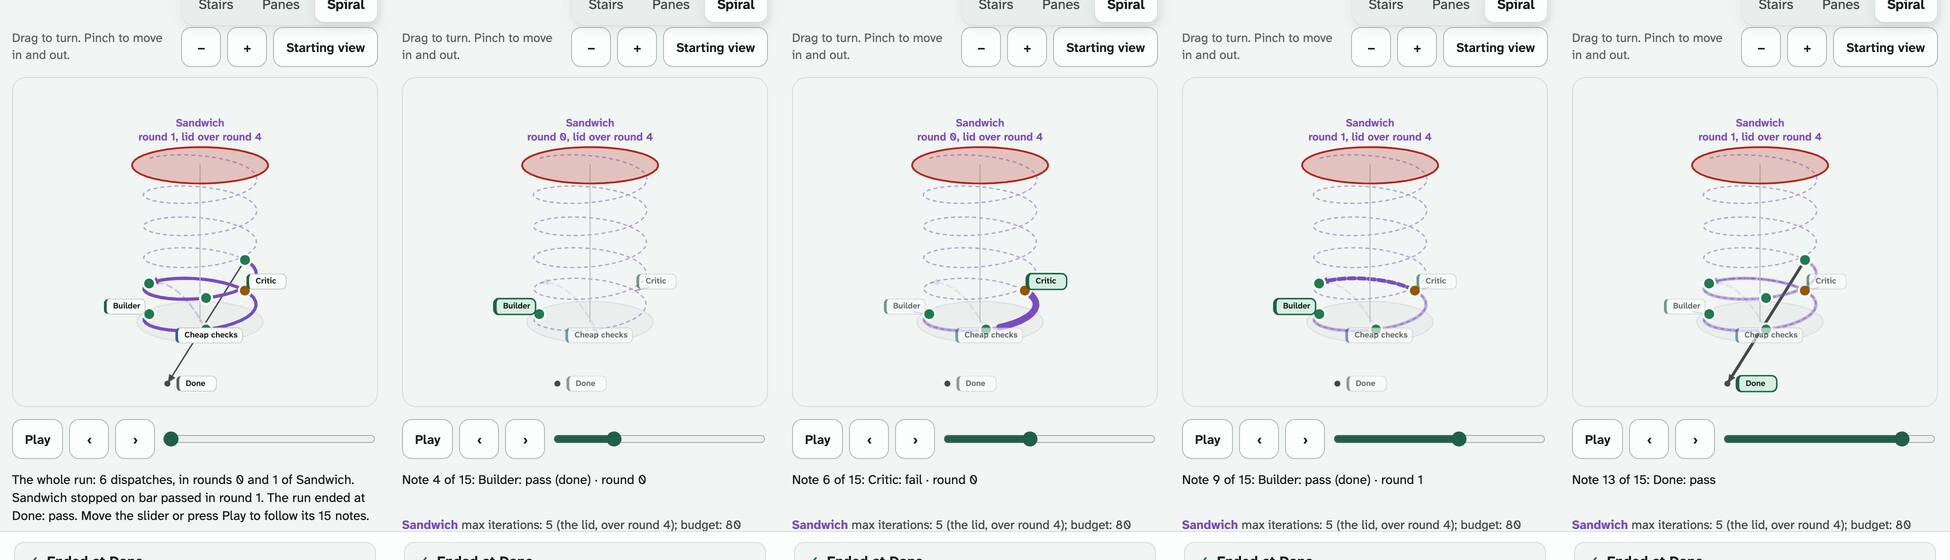
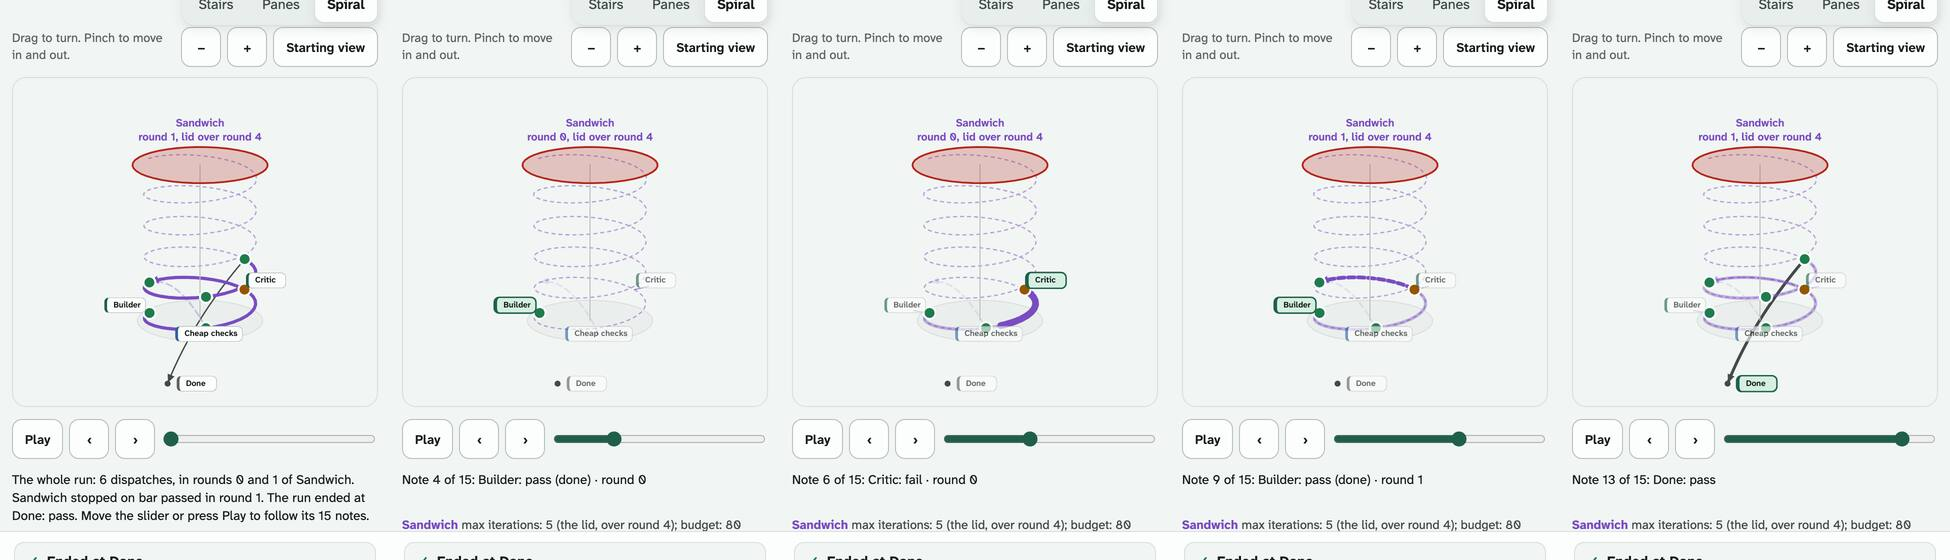
web: the spiral stacked, after its reader and CI: an edge goes out to the side round the nodes between its ends and round the top of any spiral it passes, takings of one edge are apart, the frame leaves 7 px between cards where it can and follows its own width as that changes; the phone test demands

diff --git a/apps/web/test/graph-stage.test.ts b/apps/web/test/graph-stage.test.ts
@@ -723,6 +723,11 @@ describe("the spiral and its lid", () => {
     // The two spirals' middles are in one upright line, the inner loop's above the outer's by more than its own height.
     // Each spiral has an upright line up its middle: the foot of each, the higher first. The loop inside is placed first.
     const feet = (prims: typeof built.prims) => prims.flatMap((p) => (p.t === "line" && p.stroke === "line-strong" && p.pts.length === 2 ? [p.pts[0]!] : []));
+    /** Each spiral's top (where its middle line ends) and its turn's radius (the floor under it is 12 wider). */
+    const feetOf = (prims: typeof built.prims): { y: number; r: number }[] => {
+      const floors = prims.flatMap((p) => (p.t === "poly" && p.fill === "floor" ? [p.pts] : []));
+      return prims.flatMap((p) => (p.t === "line" && p.stroke === "line-strong" && p.pts.length === 2 ? [p.pts] : [])).map(([foot, top], n) => ({ y: top![1], r: Math.max(...floors[n]!.map((v) => Math.hypot(v[0] - foot![0], v[2] - foot![2]))) - 12 }));
+    };
     const [polish, pieces] = feet(built.prims).sort((a, b) => b[1] - a[1]);
     expect(turnsOf(built.node("owner")[1] - polish![1])).toBe(0);
     expect(turnsOf(built.node("next-piece")[1] - pieces![1])).toBe(0.5);
@@ -738,6 +743,50 @@ describe("the spiral and its lid", () => {
     expect(feet(wide.prims).map((foot) => foot[1])).toEqual([0, 0]);
     expect(new Set(feet(wide.prims).map((foot) => foot[0])).size).toBe(2);
     expect(wide.prims.some((p) => p.t === "card" && !p.small)).toBe(true);
+    // Stacked, over is along the line, so an edge goes out to the side. Round the top of each spiral it passes, lid
+    // and turns: where it is level with that top it is more than the lid's radius (the turn's and 18) from the
+    // middle, on every template; and on the side of its own end there, so that it does not cross the turns.
+    let [passed, right] = [0, 0];
+    for (const path of ALL) {
+      const doc = graph(path);
+      const g = modelAt(doc, places(doc), undefined, true);
+      const drawn = spiral(g, whole);
+      const tops = feetOf(drawn.prims);
+      for (const e of g.edges) {
+        const pts = drawn.path(e.id, 0, e.back ? 1 : 0);
+        if (pts.length !== 19) continue;
+        for (const top of tops) {
+          const k = pts.findIndex((v, n) => n > 0 && (pts[n - 1]![1] - top.y) * (v[1] - top.y) < 0);
+          if (k < 0) continue;
+          const x = pts[k - 1]![0] + ((pts[k]![0] - pts[k - 1]![0]) * (top.y - pts[k - 1]![1])) / (pts[k]![1] - pts[k - 1]![1]);
+          expect(Math.abs(x), `${path} ${e.id}`).toBeGreaterThan(top.r + 18 + 8);
+          // Between two places on the right of their spirals it stays on the right.
+          if (drawn.node(e.from)[0] > 0 && drawn.node(e.to)[0] > 0) expect(x, `${path} ${e.id}`).toBeGreaterThan(0), (right += 1);
+          passed += 1;
+        }
+      }
+    }
+    expect([passed > 6, right > 0]).toEqual([true, true]);
+    // Round the nodes on the ground between its ends, to the left, where no card stands: three candidates each go
+    // to the filter, and the first's edge is 30 or more to the left of the second and the third where it passes them.
+    const tournament = graph("patterns/tournament-then-judge.grooph.json");
+    const stacked = spiral(modelAt(tournament, places(tournament), undefined, true), whole);
+    const across = (id: string, y: number): number => {
+      const pts = stacked.path(id);
+      const k = pts.findIndex((v, n) => n > 0 && (pts[n - 1]![1] - y) * (v[1] - y) <= 0);
+      return pts[k - 1]![0] + ((pts[k]![0] - pts[k - 1]![0]) * (y - pts[k - 1]![1])) / (pts[k]![1] - pts[k - 1]![1] || 1);
+    };
+    for (const between of ["candidate-b", "candidate-c"]) expect(across("e-candidate-a-filter", stacked.node(between)[1]) - stacked.node(between)[0], between).toBeLessThan(-30);
+    expect(across("e-candidate-b-filter", stacked.node("candidate-c")[1]) - stacked.node("candidate-c")[0]).toBeLessThan(-30);
+    expect(stacked.path("e-candidate-c-filter").every((v) => v[0] === stacked.node("filter")[0])).toBe(true);
+    // And a graph with no loop keeps its cards whole there: a column has room for them.
+    expect(stacked.prims.some((p) => p.t === "card" && p.small)).toBe(false);
+    // Two takings of one edge between the two spirals of the nested run, one over the other, are apart.
+    const [nestedDoc, nestedNotes] = runAt("run-nested");
+    const ran = modelAt(nestedDoc, places(nestedDoc), nestedNotes, true);
+    const takings = spiral(ran, at(ran, 0)).prims.flatMap((p) => (p.t === "line" && p.key?.startsWith("edge:e-tests-judge@") ? [p.pts] : []));
+    expect(takings).toHaveLength(2);
+    expect(Math.abs(takings[0]![9]![0] - takings[1]![9]![0])).toBeGreaterThan(5);
     // No loop, narrow: a column, each node 52 under the one before it.
     const line = graph("patterns/tournament-then-judge.grooph.json");
     const column = spiral(modelAt(line, places(line), undefined, true), whole);

diff --git a/apps/web/e2e/graph-stage.spec.ts b/apps/web/e2e/graph-stage.spec.ts
@@ -21,6 +21,7 @@ const STAGE = /\/assets\/graph-stage-[^/]*\.js$/;
 const STAIRS = /\/assets\/space-[^/]*\.js$/;
 /** The built-in templates whose cards still touch in Panes under an open details sheet, at two phones' sizes. */
 const TIGHT_390: string[] = ["debate-then-build", "gauntlet-decomposed", "ownership-not-swarm", "patrol-pulse", "specialist-critic-bank", "tournament-then-judge"];
+const SPIRAL_MARGIN_360: string[] = ["gauntlet-decomposed", "specialist-critic-bank"];
 const MARGIN_360: string[] = ["heterogeneous-critic", "review-gate"];
 const TIGHT_360: string[] = ["debate-then-build", "gauntlet-decomposed", "merge-queue", "ownership-not-swarm", "patrol-pulse", "spec-then-loop", "specialist-critic-bank", "tournament-then-judge"];
 /** Whether the note that a view could not be fetched lies over any of the view's bar, its picture or its words. */
@@ -1000,6 +1001,7 @@ test("in the spiral, as a template's page first opens on a phone, no card of any
   for (const [width, height] of [[390, 844], [360, 740]] as const) {
     await page.setViewportSize({ width, height });
     const touching: Record<string, string[]> = {};
+    let nearest = Infinity;
     for (const id of ids) {
       await page.goto("about:blank");
       await page.goto(`./#/templates/built-in/${id}`);
@@ -1009,8 +1011,18 @@ test("in the spiral, as a template's page first opens on a phone, no card of any
       await viewIsStill(page);
       await expect(cards(page)).toHaveCount(pattern(id).nodes.length);
       const hits = await overlaps(page);
-      if (hits.length) touching[id] = hits;
       const [frame, room] = [(await page.locator(".s3-frame").boundingBox())!, await page.locator(".graph-space").evaluate((el) => el.clientHeight)];
+      if (hits.length) {
+        touching[id] = hits;
+        // For the log: what the frame had, and whether the page said so.
+        console.log(`spiral, touching at ${width}: ${id} (${hits.join("; ")}), frame ${Math.round(frame.height)} of ${room}, the page says so: ${await page.locator("[data-tight]").count()}`);
+      }
+      // How near the nearest two cards are: the frame is made tall enough to leave 7 px between any two, where
+      // its width and its cap let it.
+      nearest = Math.min(nearest, await cards(page).evaluateAll((els) => {
+        const boxes = els.map((el) => el.getBoundingClientRect());
+        return Math.min(...boxes.flatMap((a, i) => boxes.slice(i + 1).map((b) => Math.max(b.left - a.right, a.left - b.right, b.top - a.bottom, a.top - b.bottom))));
+      }));
       expect(frame.height, id).toBeGreaterThanOrEqual(329);
       expect(frame.height, id).toBeLessThanOrEqual(Math.round(room * 0.8) + 1);
       for (const box of await cards(page).evaluateAll((els) => els.map((el) => el.getBoundingClientRect().toJSON() as { top: number; bottom: number; left: number; right: number }))) {
@@ -1020,7 +1032,13 @@ test("in the spiral, as a template's page first opens on a phone, no card of any
         expect(box.bottom, id).toBeLessThanOrEqual(frame.y + frame.height + 1);
       }
     }
-    expect(touching, `at ${width}`).toEqual({});
+    // The bar is 390 by 844: no two cards touch on any template, and none is nearer another than 4 px (the frame
+    // leaves 7 where it can; a browser's own text is a little wider or narrower). At 360 by 740 two templates are
+    // at the margin and may touch in one browser's text: Gauntlet's two spirals and its six nodes on the ground
+    // reach the cap on the frame's height, and the critic bank's seven cards round one turn are as far apart as a
+    // frame 336 px wide lets them be. No other may.
+    if (width === 390) expect([touching, nearest >= 4], `at ${width}, nearest ${nearest}`).toEqual([{}, true]);
+    else expect(Object.keys(touching).filter((id) => !SPIRAL_MARGIN_360.includes(id)), `at ${width}`).toEqual([]);
   }
   // Gauntlet's two spirals: Pieces under Polish a piece, not beside it; and every card its name alone.
   await page.goto("about:blank");

diff --git a/apps/web/src/ui/canvas/graph-stage.tsx b/apps/web/src/ui/canvas/graph-stage.tsx
@@ -20,9 +20,9 @@ import { along, shownAt, type View } from "./stage/shapes.js";
 import { brakes, spiral, topOf } from "./stage/spiral.js";
 
 /** Each kind: how it places the graph, where it is first seen from, what it is in a sentence, whether its frame is made as tall as its cards need to be clear of each other, and whether each loop's brakes are said under it. */
-const KINDS: Record<string, { view: View; start: Look; as: string; says: string; apart?: boolean; brakes?: boolean }> = {
-  panes: { view: panes, start: { yaw: -0.86, pitch: 0.16 }, as: "panes", apart: true, says: "Every node is where the picture has it, one pane toward you for each loop or subgrooph around it; loops that only share a node are panes at one depth. An edge that changes depth is entering or leaving a loop or a subgrooph." },
-  spiral: { view: spiral, start: { yaw: -0.42, pitch: 0.3 }, as: "a spiral for each loop", apart: true, says: "A round of a loop is one turn upward, and a brake that counts rounds is a place on the way up. A loop inside another is a spiral of its own, where its rounds start afresh; a node two loops share stands on one of them.", brakes: true },
+const KINDS: Record<string, { view: View; start: Look; as: string; says: string; apart?: number; brakes?: boolean }> = {
+  panes: { view: panes, start: { yaw: -0.86, pitch: 0.16 }, as: "panes", apart: 2, says: "Every node is where the picture has it, one pane toward you for each loop or subgrooph around it; loops that only share a node are panes at one depth. An edge that changes depth is entering or leaving a loop or a subgrooph." },
+  spiral: { view: spiral, start: { yaw: -0.42, pitch: 0.3 }, as: "a spiral for each loop", apart: 7, says: "A round of a loop is one turn upward, and a brake that counts rounds is a place on the way up. A loop inside another is a spiral of its own, where its rounds start afresh; a node two loops share stands on one of them.", brakes: true },
 };
 
 let styled = false;
@@ -40,7 +40,8 @@ export function Stage3({ doc, kind, wide, of, drawn }: { doc: Graph; kind: strin
   const the = KINDS[kind]!;
   // Where the canvas has each node: the document's layout where it has one, and the canvas's own for this screen.
   // Whether the frame is a phone's width: the frame's own, since a window with the details beside the view is wide
-  // and its frame is not. Read once it is on the page, before anything is painted.
+  // and its frame is not. Read once it is on the page, before anything is painted, and again when its width
+  // changes (a panel opened beside it).
   const [slim, setSlim] = useState(wide < 640);
   const model = useMemo(() => modelOf(doc, resolvePositions(doc, columnsAt(wide), DEFAULT_LAYOUT_BOX).positions, of.notes, slim), [doc, wide, of.notes, slim]);
   // Every loop and box a node is in, the nearest first: what its card is said to be in.
@@ -59,7 +60,13 @@ export function Stage3({ doc, kind, wide, of, drawn }: { doc: Graph; kind: strin
   const once = useRef(false);
   const was = useRef(0);
 
-  useLayoutEffect(() => setSlim(frame.current!.clientWidth < 640), [wide]);
+  useLayoutEffect(() => {
+    const see = (): void => setSlim(frame.current!.clientWidth < 640);
+    see();
+    const sized = new ResizeObserver(see);
+    sized.observe(frame.current!);
+    return () => sized.disconnect();
+  }, []);
   useLayoutEffect(() => {
     const made = (stage.current = makeStage(frame.current!, canvas.current!, cards.current!, the.start, the.apart));
     // What a view grows (a spiral, its lid) is not there when the view comes: the cards land first, and then it is

diff --git a/apps/web/src/ui/canvas/stage/spiral.ts b/apps/web/src/ui/canvas/stage/spiral.ts
@@ -145,7 +145,7 @@ export const spiral: View = (m, shown) => {
     let down = 0;
     for (const item of order) {
       const top = item.loop ? topOf(m, item.loop) : 0;
-      const [over, under] = item.loop ? [Math.max(top, brakes(item.loop, top).budget ?? 0) * H + 96, 0.3 * (R(item.loop) + 50) + 56] : [20, 20];
+      const [over, under] = item.loop ? [Math.max(top, brakes(item.loop, top).budget ?? 0) * H + 96, 0.3 * (R(item.loop) + 50) + 56] : [23, 23];
       down += over;
       if (item.loop) place(item.loop, [0, -down, 0]);
       else at[item.node!] = [-60, -down, 0];
@@ -210,7 +210,23 @@ export const spiral: View = (m, shown) => {
     const place = (id: Id): number => order.findIndex((item) => item.node === id || !!item.loop?.own.includes(id));
     const [a, b] = [place(e.from), place(e.to)].sort((x, y) => x - y) as [number, number];
     const over = by(m.nodes, e.from).loop && landing ? 0 : 26 * order.slice(a + 1, b).filter((item) => item.node).length;
-    return arch(spot(e.from, rise(e.from, r0)), spot(e.to, arrives), e.back ? 40 : over, 18);
+    const [p, q] = [spot(e.from, rise(e.from, r0)), spot(e.to, arrives)];
+    if (!m.narrow) return arch(p, q, e.back ? 40 : over, 18);
+    // Where the spirals stand one under the other, over is along the line: the edge goes out to the side instead,
+    // to the left, where no card on the ground stands (or to the right, between two places on the right of their
+    // spirals). Round the nodes on the ground between; round the top of any spiral it comes down past or goes up
+    // past, lid and turns, so that it does not come through the lid; and each taking of an edge a little apart
+    // from the others, since two rounds of one place are one over the other here.
+    // How far along the edge the top of a spiral is, where the edge passes it; and the side it goes round on:
+    // that of its own end on such a spiral, so that it leaves or reaches its place from outside the turns.
+    const past = (loop: MLoop): number => (tower[loop.id]!.c[1] + topOf(m, loop) * H - p[1]) / (q[1] - p[1] || 1);
+    const tops = m.loops.filter((loop) => past(loop) > 0 && past(loop) < 1);
+    const mine = tops.find((loop) => loop.own.includes(e.from) || loop.own.includes(e.to));
+    const side = (mine ? (mine.own.includes(e.from) ? p : q)[0] > 0 : p[0] > 0 && q[0] > 0) ? 1 : -1;
+    let out = e.back ? 40 : over * 1.3;
+    for (const loop of tops) out = Math.max(out, (tower[loop.id]!.r + 30 - side * (p[0] + (q[0] - p[0]) * past(loop))) / Math.max(0.36, 4 * past(loop) * (1 - past(loop))));
+    out += 12 * r0 + 6 * r1;
+    return arch(p, q, 0, 18).map((v, n): V => [v[0] + side * out * 4 * (n / 18) * (1 - n / 18), v[1], v[2]]);
   };
   // The edges. A template's are drawn as they are in round 0. A run's are drawn where the run took them, between
   // the rounds it took them, as far as the slider has come; one it never took is faint, at round 0. An edge that is

diff --git a/apps/web/src/ui/canvas/stage/draw.ts b/apps/web/src/ui/canvas/stage/draw.ts
@@ -53,7 +53,7 @@ const READABLE = 0.9;
  * they need to be clear, up to `TALLEST` of what scrolls it, and the page scrolls. The height is asked of the
  * frame's parent, whose row it is, as `--s3-tall`; what scrolls is that parent's parent.
  */
-export function makeStage(frame: HTMLElement, canvas: HTMLCanvasElement, cards: HTMLElement, start: Look, roomy = false): Stage {
+export function makeStage(frame: HTMLElement, canvas: HTMLCanvasElement, cards: HTMLElement, start: Look, roomy = 0): Stage {
   // A browser that gives no drawing surface (it can refuse one, or have none left) cannot show this view: said, so
   // that what holds the view can fall back to what it showed before, and not left to fail at the first line drawn.
   const surface = canvas.getContext("2d");
@@ -153,7 +153,7 @@ export function makeStage(frame: HTMLElement, canvas: HTMLCanvasElement, cards: 
       else if (what() !== tallFor) {
         // At a size, whether no two cards lie over each other, placed as they are drawn: two pixels clear, so that
         // their edges are not one line.
-        const clear = (f: number, gap = 2): boolean => {
+        const clear = (f: number, gap = roomy): boolean => {
           const [x0, x1, y0, y1] = box(f);
           const [sx, sy] = [(x0 + x1) / 2 / f, -(y0 + y1) / 2 / f];
           const boxes = placed.map(([p, el, t]) => boxOf(p, el, (t[0] - sx) * near(t[2], f), -(t[1] - sy) * near(t[2], f), near(t[2], f)));

diff --git a/docs/exports.md b/docs/exports.md
@@ -62,7 +62,7 @@ A tap on a card does what a tap on its node does on the canvas. The canvas keeps
 
 - **Panes.** The picture as it is, with each loop and each subgrooph lifted toward the reader on a pane of its own. A group that was not placed from a template is not drawn on the picture and has no pane, though a node's card says it is in it. Every node is where the canvas has it (the document's own layout where it has one; where it has none the canvas's, wrapped where the canvas wrapped its rows when it last laid the document out), and as many panes forward as there are loops and subgroophs around it, one inside another, so a loop inside a loop is two panes out. Two loops that share a node without one being inside the other are two panes at one depth. Face on it is the picture; turned, it shows what is inside what, and an edge that changes depth is entering or leaving a loop or a subgrooph. A graph with neither says that nothing is lifted. A pane's name stands outside it, at whichever of its corners or sides no card is over (a card is an element over the drawing, and the next node of a column stands at a pane's corner). An edge is drawn from the edge of the card it leaves to the edge of the card it reaches, so its head is at the card and not under it, and of two edges between the same two nodes the second in the document bows out past the first, to the side of the line they share: to the right of one that runs down the page, under one that runs across it, and an edge from a node to itself, a way back or not, leaves its card as a way back does: out to the right and back. Where a graph's cards would lie over each other in the room that is left (a tall graph on a phone), the frame is made as tall as they need to be clear of each other, and the page scrolls; and where they are clear but small, it is made taller toward the size at which a card's name is ten pixels, as far as leaves the slider and its sentence in sight. The frame is never taller than four fifths of the stage it is scrolled in, which a details sheet or a panel can make short: a drag on the frame turns the view, so the page is scrolled from outside it, and a fifth of that height is left outside it to scroll from (but for a stage under 225 px tall, a phone on its side with a sheet open, where the frame's floor of 180 px is itself more). On a phone a template's page opens with its details sheet over the lower half: choosing one of these kinds (not the stairs, which are as they were) folds the sheet to its head, with the button that makes it taller put away, and a press on the head, on a card, on the bar over the canvas, or on anything that asks for another panel brings it up again (one that asks for none, such as Undo, leaves it down); so does a kind that never comes (its piece not fetched, or no drawing surface), and the picture brings it back as it was. So as a page first opens in Panes, at 390 by 844 and at 360 by 740, no card of any built-in template lies over another. With the sheet pulled up, six of them at the first size and eight at the second (ten where the browser's text puts "Merge approval" on two lines, as Chromium on Linux does) have cards that touch at the cap, and the bar over the view says so and what to do; it says so too where the frame is not held and a row is wider than the frame. The height is worked out again when the room changes (a sheet opened or closed, the window turned), and where the page was scrolled to is kept. The height is set before the cards are first drawn, so the picture's nodes are carried to where their cards stay. A card's name may take two lines. A browser that gives no drawing surface cannot draw these views: the page says so, shows what it showed before, and does not remember the kind as the visit's.
 
-- **Spiral.** Each loop is a spiral: a round is one turn upward, and a brake that counts rounds is a place on the way up. The lid stands where max iterations stops the loop: over the last round it allows (rounds number from 0, so a cap of 5 is a lid over round 4). A person asked every so many rounds is an amber ring after each of those rounds, for each such stop a loop has; at the lid's own height there is one, inside the lid, only where the person's stop is listed before the cap, since the stops are looked at in the document's order, and where that leaves a stop with no ring the words say why. A budget in dispatches is a dashed ring where it runs out if every round is a full one, counted as the compiler tells a lead to count a round. It is a reading, not a ceiling: a round cut short costs less and one with a second dispatch more; it is said as "at most" so many full rounds, and drawn where it is no more than a round and a half over the top of the drawing. Every brake of a loop is said in words under the view, in the document's order, where a screen reader has them too: the tightest cap as the lid, the least budget in dispatches as the ring, and one with no place on the way up (a budget in minutes, turns or dollars; a person who is not asked by the round) as having none. A loop inside another is a spiral of its own beside it, because its rounds start afresh each time the outer one comes round; a node two loops share without one being inside the other stands on one of them (the smaller, or the first in the document) and is named at its place on the other. The stations of a turn are a loop's nodes in the order of a first pass; an edge from one station to the next is the spiral itself, and every other edge between a loop's nodes (a fan out, a fan in) is drawn across it. On a run's page each spiral is solid as far up as the run has been, says the round the run is in there, and has a bead for each dispatch so far in the round it was in, green for a pass, amber for a fail and gray for anything else; two dispatches at one place, which a loop that started afresh has, are set side by side. An edge the run took is drawn between the rounds it took it, as often as it took it, and one it never took is faint; a way back that crosses from one loop's spiral to another's, through a node the two share, arrives in the round that loop is in. A note about an edge lights the edge where it is drawn and is not shown as a move, and two notes of one visit to a node, the first not yet ended, are not a move either. Where a note names no round it is worked out from the edge taken: a loop's way back is its next round, wherever in the loop it lands, and every loop inside it, at any depth, starts again at round 0. A way back that is another loop's does not turn a spiral it only crosses. (The sentence over a whole run ends with core's own line, which counts a loop's rounds by its loop notes, the rounds that have ended; the words over a spiral are the round the run is in, which is one more while a round is under way, and for a run whose notes name no round the two can differ further.) The lid is never lit with its loop: looking at a loop fires no cap. A node in no loop stands on the ground by its name alone, and a graph with no loop has no spiral and says so. In a frame a phone's width (under 640 px: the frame's own width, so a wide window with a template's details beside the view counts) the spirals stand one under the other in the order of a first pass, the nodes in no loop in the same line above and under them; every card there is its name alone, as wide as its name, and a tap opens the node as anywhere; a loop inside another is named at its place as "the spiral above", and a graph with no loop is a column. Two spirals side by side leave each half the frame, and cards do not shrink with them. The spirals, lids and edges are grown once the cards have landed; a reader who asked for less motion has them at once.
+- **Spiral.** Each loop is a spiral: a round is one turn upward, and a brake that counts rounds is a place on the way up. The lid stands where max iterations stops the loop: over the last round it allows (rounds number from 0, so a cap of 5 is a lid over round 4). A person asked every so many rounds is an amber ring after each of those rounds, for each such stop a loop has; at the lid's own height there is one, inside the lid, only where the person's stop is listed before the cap, since the stops are looked at in the document's order, and where that leaves a stop with no ring the words say why. A budget in dispatches is a dashed ring where it runs out if every round is a full one, counted as the compiler tells a lead to count a round. It is a reading, not a ceiling: a round cut short costs less and one with a second dispatch more; it is said as "at most" so many full rounds, and drawn where it is no more than a round and a half over the top of the drawing. Every brake of a loop is said in words under the view, in the document's order, where a screen reader has them too: the tightest cap as the lid, the least budget in dispatches as the ring, and one with no place on the way up (a budget in minutes, turns or dollars; a person who is not asked by the round) as having none. A loop inside another is a spiral of its own beside it, because its rounds start afresh each time the outer one comes round; a node two loops share without one being inside the other stands on one of them (the smaller, or the first in the document) and is named at its place on the other. The stations of a turn are a loop's nodes in the order of a first pass; an edge from one station to the next is the spiral itself, and every other edge between a loop's nodes (a fan out, a fan in) is drawn across it. On a run's page each spiral is solid as far up as the run has been, says the round the run is in there, and has a bead for each dispatch so far in the round it was in, green for a pass, amber for a fail and gray for anything else; two dispatches at one place, which a loop that started afresh has, are set side by side. An edge the run took is drawn between the rounds it took it, as often as it took it, and one it never took is faint; a way back that crosses from one loop's spiral to another's, through a node the two share, arrives in the round that loop is in. A note about an edge lights the edge where it is drawn and is not shown as a move, and two notes of one visit to a node, the first not yet ended, are not a move either. Where a note names no round it is worked out from the edge taken: a loop's way back is its next round, wherever in the loop it lands, and every loop inside it, at any depth, starts again at round 0. A way back that is another loop's does not turn a spiral it only crosses. (The sentence over a whole run ends with core's own line, which counts a loop's rounds by its loop notes, the rounds that have ended; the words over a spiral are the round the run is in, which is one more while a round is under way, and for a run whose notes name no round the two can differ further.) The lid is never lit with its loop: looking at a loop fires no cap. A node in no loop stands on the ground by its name alone, and a graph with no loop has no spiral and says so. In a frame a phone's width (under 640 px: the frame's own width, so a wide window with a template's details beside the view counts, and the layout follows the frame when a panel opens beside it) the spirals stand one under the other, a loop inside another above the loop it is inside and otherwise in the order of a first pass, with the nodes in no loop in the same line above and under them. Two spirals side by side leave each half the frame, and cards do not shrink with them. Every card there is its name alone, as wide as its name, and a tap opens the node as anywhere (a graph with no loop is a column of whole cards, which it has room for); a loop inside another is named at its place as "the spiral above". Stacked, over is along the line, so an edge between a spiral and what is outside it, or between nodes on the ground, goes out to the side instead: round the nodes on the ground between its ends, to the left, where no card stands; round the top of any spiral it passes, lid and turns, on the side of its own end there, so that no edge comes down through a lid; and each taking of an edge on a run's page a little apart from the others, since two rounds of one place are one over the other. The frame is made tall enough to leave 7 px between any two cards where its width and its cap let it: at 390 by 844 no two cards of any built-in template touch, and at 360 by 740 two templates are at the margin (Gauntlet, decomposed reaches the cap on the frame's height, and the specialist critic bank has seven cards round one turn in 336 px) and may touch in one browser's text. The spirals, lids and edges are grown once the cards have landed; a reader who asked for less motion has them at once.
 
 These kinds are drawn on a 2D canvas by one small stage, with no library, and each node's card is a real element placed over the drawing, so a card can be tapped, focused and named as on the stairs. Their slider walks the edges of a first pass and then each way back into a loop, in the stairs' own words, or a run's own notes. Which edges a run took is read from its notes as the contract has a run go: every edge out of a node whose condition is what the node reported, or that has none, is taken, so a node that fans out reaches each of its targets and one that fans in is reached by each of its sources, from every node that has reported a result since the target was last reached; the line before a dispatch is not a result, whether or not the notes carry stamps, and neither it nor a word at a node is a report: it takes back nothing the node reported, and no edge is taken on it; a dispatch is a note at an agent or a check with an outcome, so a word, a proposal or an amendment at a node is not one; a stop is looked at before a way back, so where a loop's note names the stop that fired its way back was not taken, but for a person's stop, which their answer lifts for the dispatch that comes next and for nothing after it (a word at a node between does not spend it, and a run that ends at the halt took no way back); a second `invalid-evidence` in a row in one round routes as a fail; and where no edge is for what was reported, none is shown as taken. A plain note at an edge is the lead's word that the run is on it and is shown at the edge; a proposal or an amendment about an edge is said not to be a move. Where a lead wrote the run's end as a note about the run and none at the stop node, the run's end note shows the arrival there. A round is said by its loop's name, and a dispatch at a node in no loop is in none. What a step moves along is seen to travel over the cards when the slider goes on by one, and is then the lit card; a reader who asked for less motion sees the lit card at once. A group's nesting is read as core reads it (a node listed by a group and by one inside it is the inner one's). A note about the run as a whole, or about an edge, is said in the note's own words and is not shown as a move. They are one piece of the app (`src/ui/canvas/graph-stage.tsx`), fetched when one of them is first chosen and named in the page so the service worker holds it; like the stairs they are Paper in every picture theme. The piece is on no address's first load and has a line of its own in `scripts/perf-budget.json`, 17 KB for all of the kinds together; the switch and the graph's reading, which every address that draws on the canvas fetches once the canvas is drawn, has one too, at 6.
 
